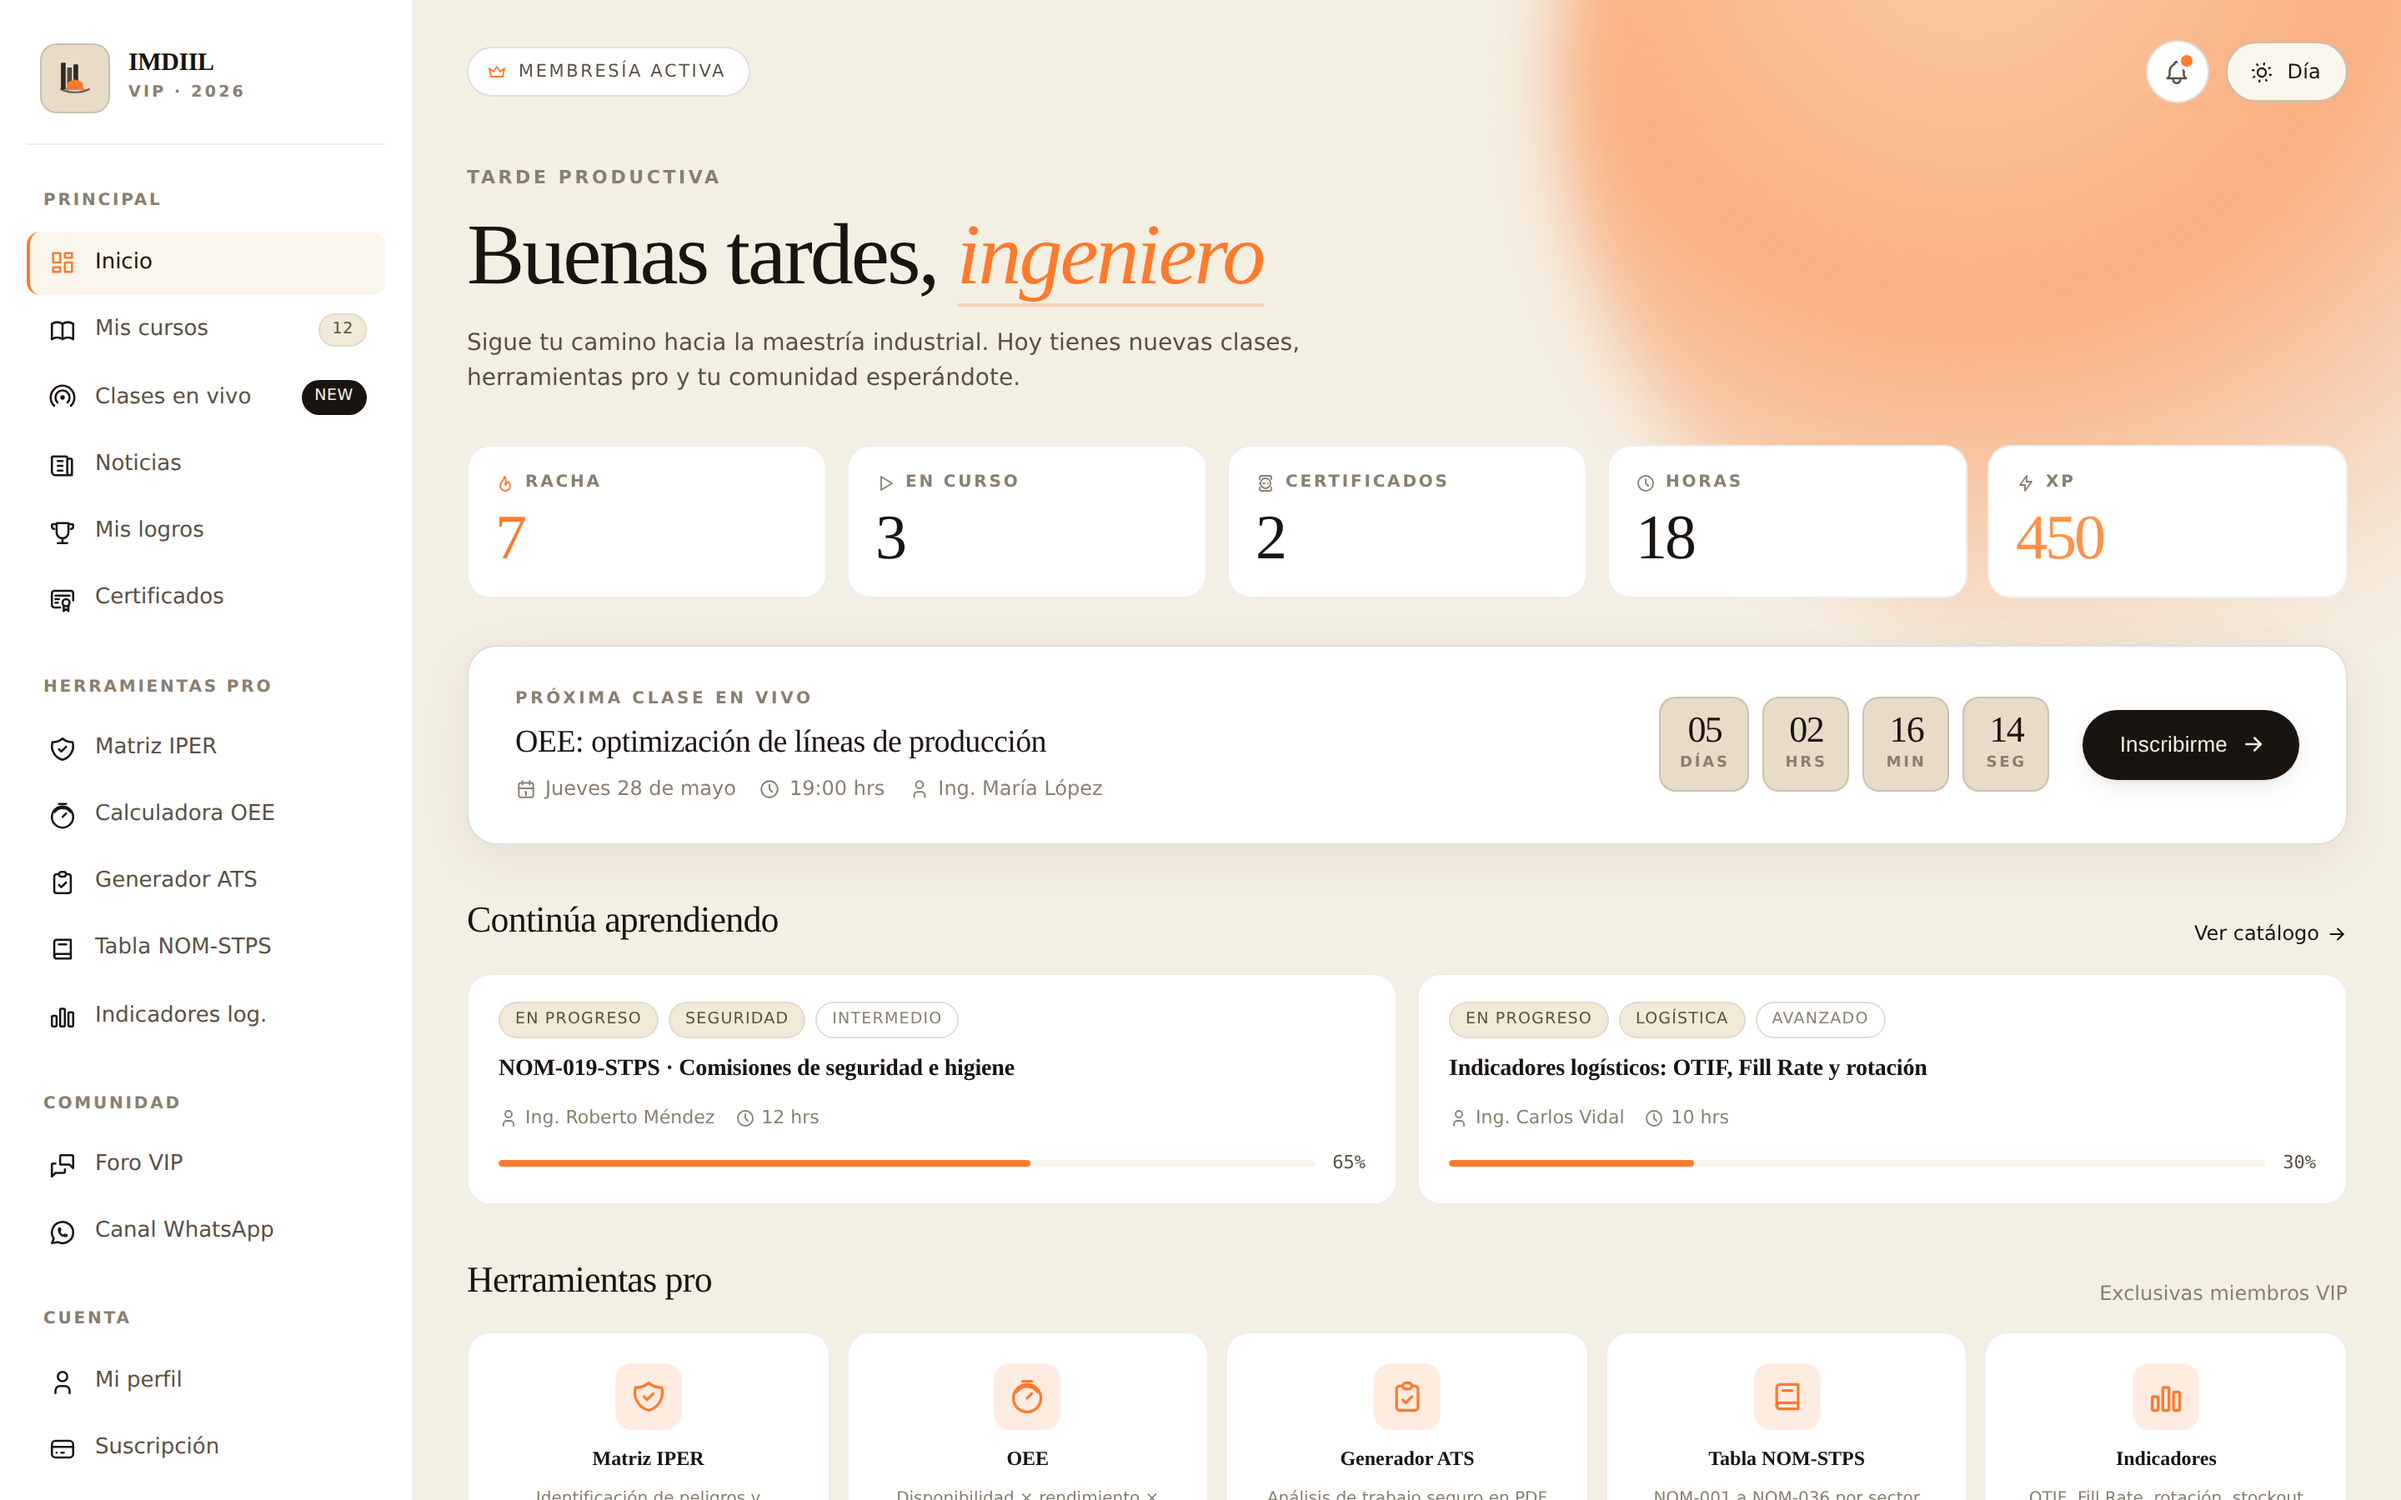
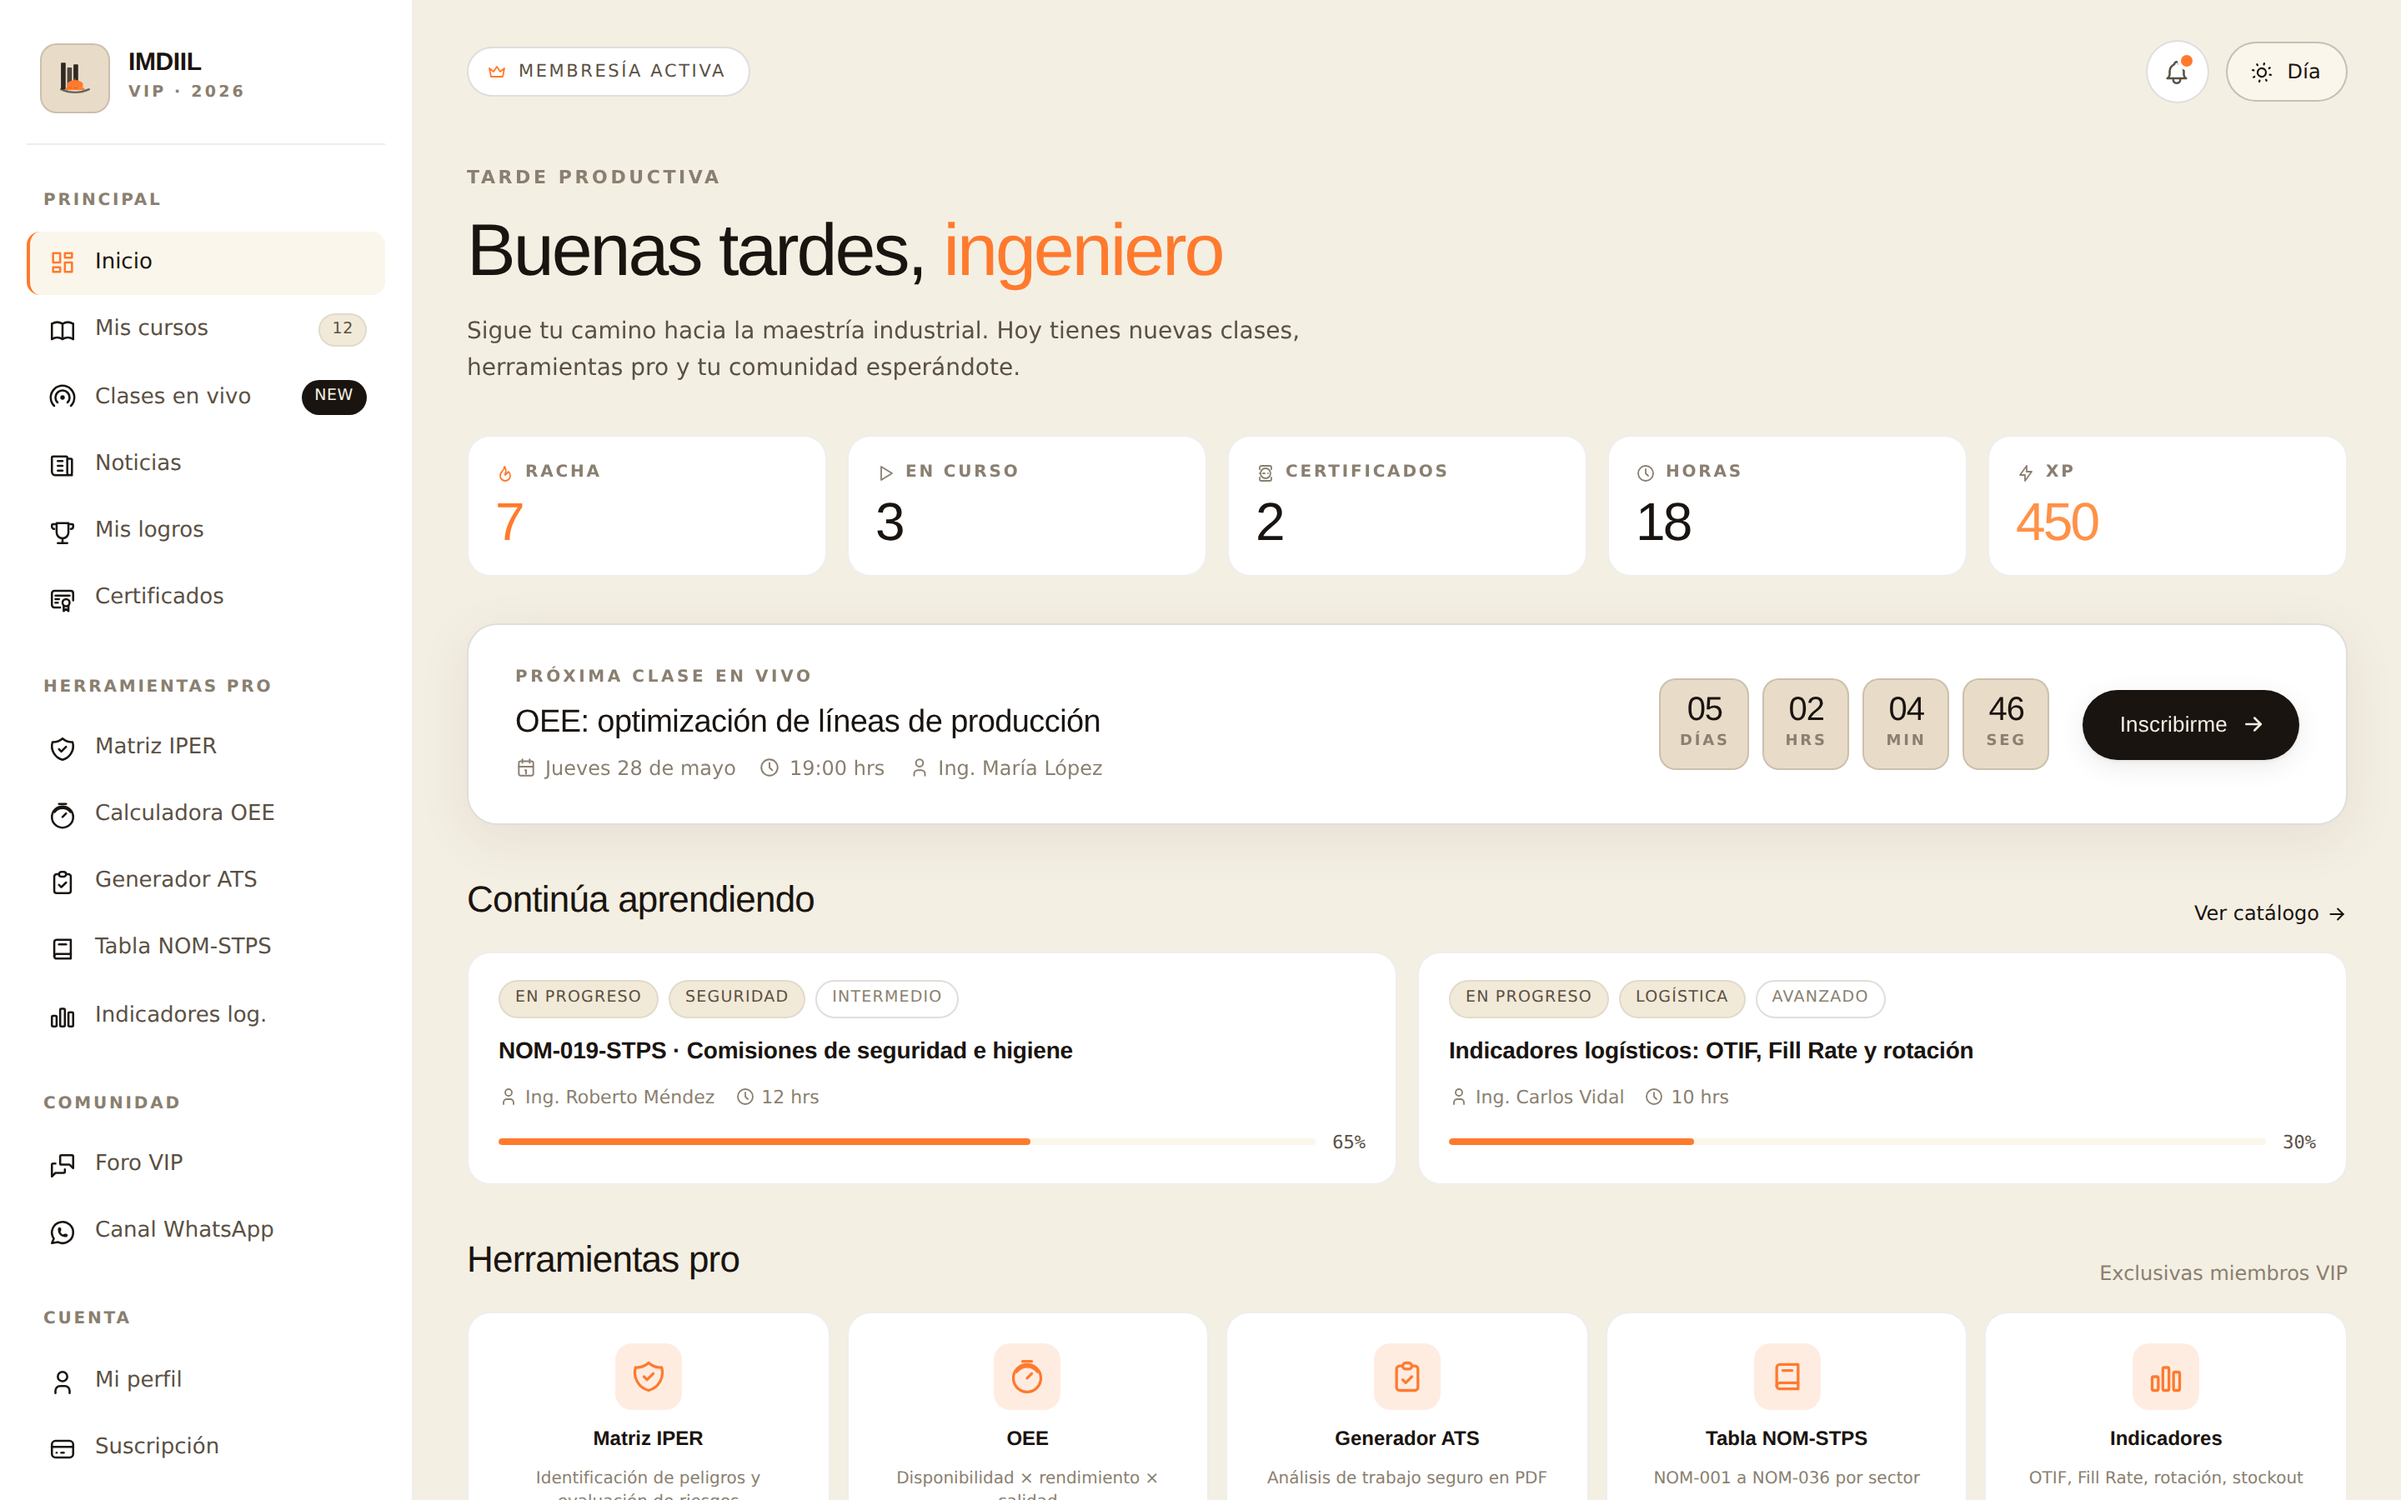
Add files via upload

Changed region(s): [[0.1875, 0.0, 1.0, 0.56], [0.1875, 0.5911, 1.0, 1.0], [0.0625, 0.0311, 0.0938, 0.0622]]

diff --git a/vip-panel.html b/vip-panel.html
@@ -17,7 +17,7 @@
 
 <link rel="preconnect" href="https://fonts.googleapis.com">
 <link rel="preconnect" href="https://fonts.gstatic.com" crossorigin>
-<link href="https://fonts.googleapis.com/css2?family=Fraunces:opsz,wght@9..144,400;9..144,500;9..144,600;9..144,700&family=Inter:wght@400;500;600&family=JetBrains+Mono:wght@500;600&display=swap" rel="stylesheet">
+<link href="https://fonts.googleapis.com/css2?family=Inter:wght@400;500;600;700&family=JetBrains+Mono:wght@500;600&display=swap" rel="stylesheet">
 
 <style>
 *,*::before,*::after{box-sizing:border-box;margin:0;padding:0}
@@ -92,29 +92,9 @@ body{
   -webkit-font-smoothing:antialiased;
   -moz-osx-font-smoothing:grayscale;
   transition:background .35s ease,color .35s ease;
-  position:relative;
 }
-body::before{
-  content:"";
-  position:fixed;
-  top:-300px;right:-200px;
-  width:700px;height:700px;
-  border-radius:50%;
-  background:radial-gradient(circle at 35% 35%,#FFB377 0%,#FF7A2D 38%,rgba(255,122,45,0.4) 60%,transparent 75%);
-  filter:blur(20px);
-  pointer-events:none;
-  z-index:0;
-  opacity:0;
-  transition:opacity .5s ease;
-  animation:orbFloat 18s ease-in-out infinite alternate;
-}
-:root[data-theme="day"] body::before{opacity:.55}
-:root[data-theme="night"] body::before{opacity:.22}
-@keyframes orbFloat{
-  0%{transform:translate(0,0) scale(1)}
-  100%{transform:translate(-40px,30px) scale(1.06)}
-}
-.shell{position:relative;z-index:2;display:grid;grid-template-columns:248px 1fr;min-height:100vh}
+
+.shell{position:relative;display:grid;grid-template-columns:248px 1fr;min-height:100vh}
 
 .ic{width:17px;height:17px;stroke:currentColor;fill:none;stroke-width:1.8;stroke-linecap:round;stroke-linejoin:round;flex-shrink:0}
 .ic--sm{width:13px;height:13px}
@@ -140,7 +120,7 @@ aside.sidebar::-webkit-scrollbar-thumb{background:var(--border-2);border-radius:
   position:relative;overflow:hidden;
 }
 .brand__logo svg{width:30px;height:30px}
-.brand__name{font-family:'Fraunces',Georgia,serif;font-size:15px;font-weight:600;letter-spacing:-.2px;line-height:1.1}
+.brand__name{font-family:'Inter',sans-serif;font-size:15px;font-weight:600;letter-spacing:-.2px;line-height:1.1}
 .brand__tag{font-size:9.5px;color:var(--text-3);letter-spacing:1.6px;text-transform:uppercase;margin-top:3px;font-weight:600}
 
 .nav-group{display:flex;flex-direction:column;gap:2px}
@@ -206,19 +186,14 @@ main.main{padding:24px 32px 80px;display:flex;flex-direction:column;gap:28px;min
 .hero{display:flex;flex-direction:column;gap:8px;padding:8px 0 0;animation:fadeUp .6s ease forwards}
 .hero__greeting{font-size:11px;color:var(--text-3);letter-spacing:1.8px;text-transform:uppercase;font-weight:600}
 .hero h1{
-  font-family:'Fraunces',Georgia,serif;
-  font-size:clamp(34px,4.2vw,52px);
+  font-family:'Inter',sans-serif;
+  font-size:clamp(30px,3.8vw,44px);
   font-weight:500;
   letter-spacing:-1.5px;
-  line-height:1.05;
+  line-height:1.1;
   margin-top:4px;
-  font-variation-settings:"opsz" 120,"SOFT" 30;
 }
-.hero h1 em{font-style:italic;color:var(--primary);font-weight:500;position:relative}
-.hero h1 em::after{
-  content:"";position:absolute;left:0;bottom:-2px;width:100%;height:2px;
-  background:var(--primary);opacity:.25;border-radius:2px;
-}
+.hero h1 em{font-style:normal;color:var(--primary);font-weight:500}
 .hero p{font-size:14px;color:var(--text-2);max-width:580px;margin-top:6px;line-height:1.55}
 
 .kpi-grid{display:grid;grid-template-columns:repeat(5,minmax(0,1fr));gap:12px}
@@ -237,16 +212,16 @@ main.main{padding:24px 32px 80px;display:flex;flex-direction:column;gap:28px;min
 }
 .kpi__label .ic{width:12px;height:12px}
 .kpi__value{
-  font-family:'Fraunces',Georgia,serif;
-  font-size:38px;font-weight:500;
-  line-height:1;color:var(--text);letter-spacing:-1.5px;
-  font-variation-settings:"opsz" 80;
+  font-family:'Inter',sans-serif;
+  font-size:32px;font-weight:500;
+  line-height:1;color:var(--text);letter-spacing:-1.4px;
+  font-feature-settings:"tnum" 1,"lnum" 1;
 }
 .kpi--fire .kpi__value,.kpi--fire .kpi__label .ic{color:var(--primary)}
 .kpi--gold .kpi__value{color:var(--highlight)}
 
 .section-header{display:flex;align-items:flex-end;justify-content:space-between;gap:12px;margin-bottom:14px}
-.section-header__title{font-family:'Fraunces',Georgia,serif;font-size:22px;font-weight:500;letter-spacing:-.4px;font-variation-settings:"opsz" 100}
+.section-header__title{font-family:'Inter',sans-serif;font-size:22px;font-weight:500;letter-spacing:-.4px}
 .section-header__title::before{display:none}
 .section-header__link{font-size:12px;color:var(--secondary);font-weight:500;display:inline-flex;align-items:center;gap:4px;transition:gap .2s}
 .section-header__link:hover{gap:8px}
@@ -261,14 +236,14 @@ main.main{padding:24px 32px 80px;display:flex;flex-direction:column;gap:28px;min
 .webinar::before{display:none}
 .webinar__info{display:flex;flex-direction:column;gap:4px;min-width:0;flex:1}
 .webinar__label{font-size:10px;color:var(--text-3);font-weight:600;letter-spacing:1.8px;text-transform:uppercase}
-.webinar__title{font-family:'Fraunces',Georgia,serif;font-size:19px;font-weight:500;letter-spacing:-.3px;line-height:1.2;margin-top:4px;font-variation-settings:"opsz" 80}
+.webinar__title{font-family:'Inter',sans-serif;font-size:19px;font-weight:500;letter-spacing:-.3px;line-height:1.2;margin-top:4px}
 .webinar__meta{font-size:12px;color:var(--text-3);margin-top:2px;display:flex;align-items:center;gap:14px;flex-wrap:wrap}
 .webinar__meta span{display:inline-flex;align-items:center;gap:5px}
 .webinar__meta .ic{width:13px;height:13px}
 
 .countdown{display:flex;gap:8px;align-items:center}
 .countdown__cell{background:var(--bg-deep);border:0.5px solid var(--border-2);border-radius:10px;padding:8px 11px;min-width:52px;text-align:center}
-.countdown__num{font-family:'Fraunces',Georgia,serif;font-size:22px;font-weight:500;color:var(--text);line-height:1;letter-spacing:-.8px;font-variation-settings:"opsz" 80}
+.countdown__num{font-family:'Inter',sans-serif;font-size:20px;font-weight:500;color:var(--text);line-height:1;letter-spacing:-.6px;font-feature-settings:"tnum" 1,"lnum" 1}
 .countdown__lbl{font-size:9px;color:var(--text-3);letter-spacing:1.4px;text-transform:uppercase;margin-top:3px;font-weight:600}
 
 .btn{
@@ -317,7 +292,7 @@ main.main{padding:24px 32px 80px;display:flex;flex-direction:column;gap:28px;min
 .tag--prog{background:var(--surface-3);color:var(--text-2);border:0.5px solid var(--border)}
 .tag--area{background:var(--surface-3);color:var(--text-2);border:0.5px solid var(--border)}
 .tag--lvl{background:transparent;color:var(--text-3);border:0.5px solid var(--border-2)}
-.course__title{font-family:'Fraunces',Georgia,serif;font-size:14px;font-weight:600;line-height:1.35;letter-spacing:-.1px}
+.course__title{font-family:'Inter',sans-serif;font-size:14px;font-weight:600;line-height:1.35;letter-spacing:-.1px}
 .course__meta{font-size:11px;color:var(--text-3);display:flex;align-items:center;gap:12px}
 .course__meta span{display:inline-flex;align-items:center;gap:4px}
 .course__meta .ic{width:12px;height:12px}
@@ -341,7 +316,7 @@ main.main{padding:24px 32px 80px;display:flex;flex-direction:column;gap:28px;min
   color:var(--primary);
 }
 .tool__icon .ic{width:22px;height:22px;stroke-width:1.8}
-.tool__name{font-family:'Fraunces',Georgia,serif;font-size:12px;font-weight:600;line-height:1.25}
+.tool__name{font-family:'Inter',sans-serif;font-size:12px;font-weight:600;line-height:1.25}
 .tool__desc{font-size:10px;color:var(--text-3);line-height:1.4}
 
 .level-card{
@@ -358,7 +333,7 @@ main.main{padding:24px 32px 80px;display:flex;flex-direction:column;gap:28px;min
 .level-card__icon .ic{width:18px;height:18px;stroke-width:1.8}
 .level-card__info{flex:1;min-width:0}
 .level-card__info .l1{font-size:10px;color:var(--text-3);letter-spacing:1.4px;text-transform:uppercase;font-weight:600}
-.level-card__info .l2{font-family:'Fraunces',Georgia,serif;font-size:15px;font-weight:600;margin-top:1px}
+.level-card__info .l2{font-family:'Inter',sans-serif;font-size:15px;font-weight:600;margin-top:1px}
 .level-card__bar{flex:0 0 160px;height:5px;background:var(--surface-2);border-radius:3px;overflow:hidden}
 .level-card__bar > div{width:38%;height:100%;background:linear-gradient(90deg,var(--highlight),var(--primary));transition:width .8s ease}
 .level-card__xp{font-family:'JetBrains Mono',monospace;font-size:11px;color:var(--text-2);white-space:nowrap;font-weight:500}
